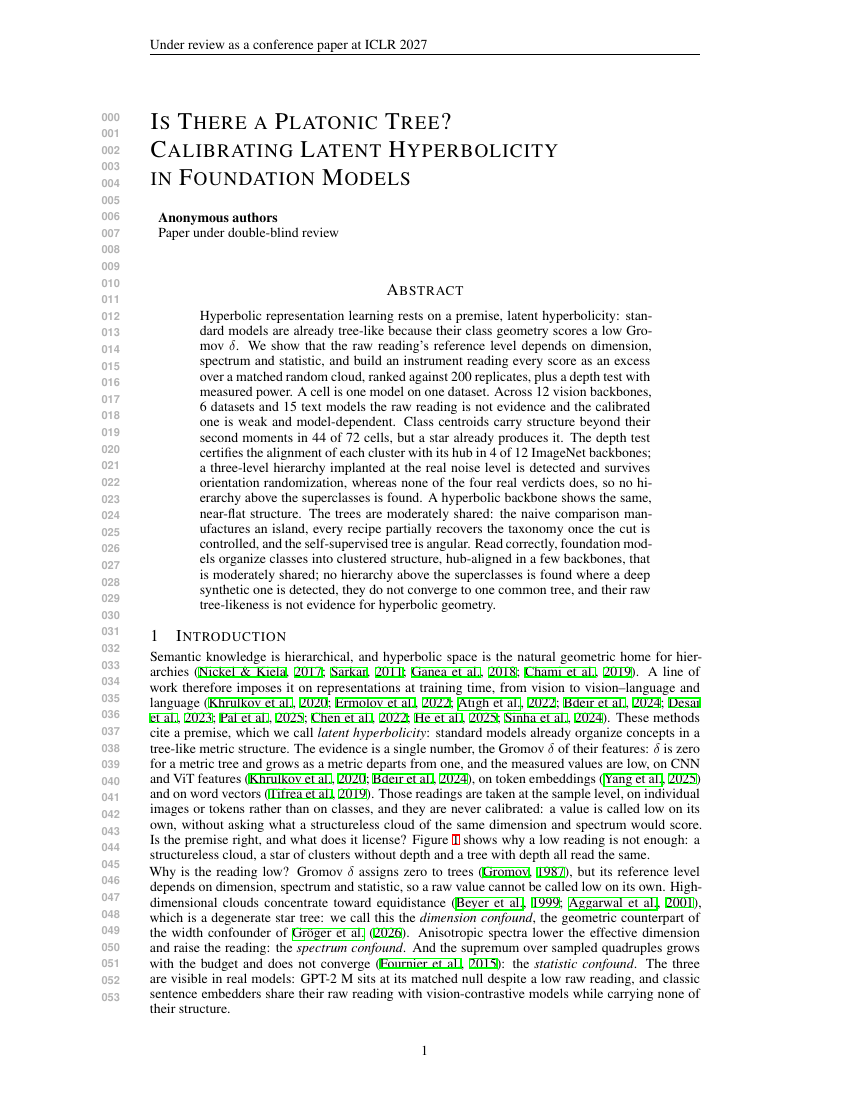
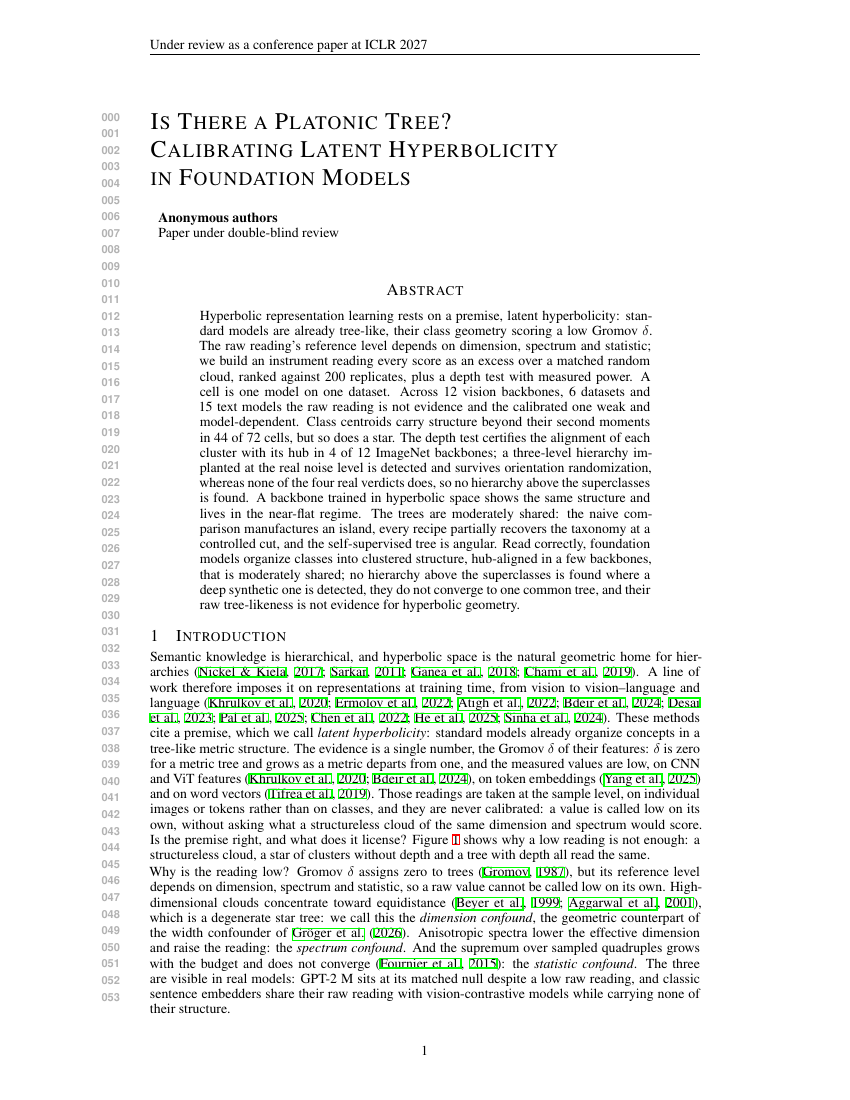
Abstract retouch (author): "A backbone trained in hyperbolic space shows the same structure and lives in the near-flat regime"; 250 words, page 9 kept, sweep 215/215
- The new sentence adds eight words; seven trimmed elsewhere without touching content (listed in CHANGELOG S37 and TODO_author).
- Submission and rebuttal file recompiled; OPENREVIEW_abstract.txt regenerated.

Claude-Session: https://claude.ai/code/session_01X3uQtPxuL37VCSgmwvB8QH

Changed region(s): [[0.2141, 0.2782, 0.7647, 0.5564]]

diff --git a/rebuttal/scripts/phaseE_submission.py b/rebuttal/scripts/phaseE_submission.py
@@ -85,13 +85,13 @@ def edit(s):
     return s
 # sixth review (2026-09-20): the abstract is rewritten by order to 250 words or fewer, depth left open, cell defined in its own sentence;
 # the text below replaces the edited verbatim abstract and is recorded in final_verbatim_edits.json ("abstract_sixth_review")
-ABSTRACT_TEXT = ("Hyperbolic representation learning rests on a premise, latent hyperbolicity: standard models are already tree-like because their class geometry scores a low Gromov $\\delta$. "
-    "We show that the raw reading's reference level depends on dimension, spectrum and statistic, and build an instrument reading every score as an excess over a matched random cloud, ranked against 200 replicates, plus a depth test with measured power. "
+ABSTRACT_TEXT = ("Hyperbolic representation learning rests on a premise, latent hyperbolicity: standard models are already tree-like, their class geometry scoring a low Gromov $\\delta$. "
+    "The raw reading's reference level depends on dimension, spectrum and statistic; we build an instrument reading every score as an excess over a matched random cloud, ranked against 200 replicates, plus a depth test with measured power. "
     "A cell is one model on one dataset. "
-    "Across 12 vision backbones, 6 datasets and 15 text models the raw reading is not evidence and the calibrated one is weak and model-dependent. "
-    "Class centroids carry structure beyond their second moments in {{N_GEN}} of 72 cells, but a star already produces it. The depth test certifies the alignment of each cluster with its hub in {{N_IN}} of 12 ImageNet backbones; a three-level hierarchy implanted at the real noise level is detected and survives orientation randomization, whereas none of the four real verdicts does, so no hierarchy above the superclasses is found. "
-    "A hyperbolic backbone shows the same, near-flat structure. "
-    "The trees are moderately shared: the naive comparison manufactures an island, every recipe partially recovers the taxonomy once the cut is controlled, and the self-supervised tree is angular. "
+    "Across 12 vision backbones, 6 datasets and 15 text models the raw reading is not evidence and the calibrated one weak and model-dependent. "
+    "Class centroids carry structure beyond their second moments in {{N_GEN}} of 72 cells, but so does a star. The depth test certifies the alignment of each cluster with its hub in {{N_IN}} of 12 ImageNet backbones; a three-level hierarchy implanted at the real noise level is detected and survives orientation randomization, whereas none of the four real verdicts does, so no hierarchy above the superclasses is found. "
+    "A backbone trained in hyperbolic space shows the same structure and lives in the near-flat regime. "
+    "The trees are moderately shared: the naive comparison manufactures an island, every recipe partially recovers the taxonomy at a controlled cut, and the self-supervised tree is angular. "
     "Read correctly, foundation models organize classes into clustered structure, hub-aligned in a few backbones, that is moderately shared; no hierarchy above the superclasses is found where a deep synthetic one is detected, they do not converge to one common tree, and their raw tree-likeness is not evidence for hyperbolic geometry.")
 ABSTRACT_SIXTH = ABSTRACT_TEXT   # 2026-09-21: the abstract with priorities 1b and 2 (author's brief); recorded as abstract_final
 ABSTRACT = "\\begin{abstract}\n" + ABSTRACT_TEXT + "\n\\end{abstract}"

diff --git a/ICLR2027/iclr2027/main_iclr2027_final.tex b/ICLR2027/iclr2027/main_iclr2027_final.tex
@@ -61,7 +61,7 @@
 \raggedbottom   % final pass: [t] figures and [H] tables leave short pages; ragged bottoms instead of underfull vertical boxes
 
 \begin{abstract}
-Hyperbolic representation learning rests on a premise, latent hyperbolicity: standard models are already tree-like because their class geometry scores a low Gromov $\delta$. We show that the raw reading's reference level depends on dimension, spectrum and statistic, and build an instrument reading every score as an excess over a matched random cloud, ranked against 200 replicates, plus a depth test with measured power. A cell is one model on one dataset. Across 12 vision backbones, 6 datasets and 15 text models the raw reading is not evidence and the calibrated one is weak and model-dependent. Class centroids carry structure beyond their second moments in 44 of 72 cells, but a star already produces it. The depth test certifies the alignment of each cluster with its hub in 4 of 12 ImageNet backbones; a three-level hierarchy implanted at the real noise level is detected and survives orientation randomization, whereas none of the four real verdicts does, so no hierarchy above the superclasses is found. A hyperbolic backbone shows the same, near-flat structure. The trees are moderately shared: the naive comparison manufactures an island, every recipe partially recovers the taxonomy once the cut is controlled, and the self-supervised tree is angular. Read correctly, foundation models organize classes into clustered structure, hub-aligned in a few backbones, that is moderately shared; no hierarchy above the superclasses is found where a deep synthetic one is detected, they do not converge to one common tree, and their raw tree-likeness is not evidence for hyperbolic geometry.
+Hyperbolic representation learning rests on a premise, latent hyperbolicity: standard models are already tree-like, their class geometry scoring a low Gromov $\delta$. The raw reading's reference level depends on dimension, spectrum and statistic; we build an instrument reading every score as an excess over a matched random cloud, ranked against 200 replicates, plus a depth test with measured power. A cell is one model on one dataset. Across 12 vision backbones, 6 datasets and 15 text models the raw reading is not evidence and the calibrated one weak and model-dependent. Class centroids carry structure beyond their second moments in 44 of 72 cells, but so does a star. The depth test certifies the alignment of each cluster with its hub in 4 of 12 ImageNet backbones; a three-level hierarchy implanted at the real noise level is detected and survives orientation randomization, whereas none of the four real verdicts does, so no hierarchy above the superclasses is found. A backbone trained in hyperbolic space shows the same structure and lives in the near-flat regime. The trees are moderately shared: the naive comparison manufactures an island, every recipe partially recovers the taxonomy at a controlled cut, and the self-supervised tree is angular. Read correctly, foundation models organize classes into clustered structure, hub-aligned in a few backbones, that is moderately shared; no hierarchy above the superclasses is found where a deep synthetic one is detected, they do not converge to one common tree, and their raw tree-likeness is not evidence for hyperbolic geometry.
 \end{abstract}
 
 \section{Introduction}

diff --git a/ICLR2027/iclr2027/main_iclr2027_rebuttal.tex b/ICLR2027/iclr2027/main_iclr2027_rebuttal.tex
@@ -62,7 +62,7 @@
 \raggedbottom   % final pass: [t] figures and [H] tables leave short pages; ragged bottoms instead of underfull vertical boxes
 
 \begin{abstract}
-Hyperbolic representation learning rests on a premise, latent hyperbolicity: standard models are already tree-like because their class geometry scores a low Gromov $\delta$. We show that the raw reading's reference level depends on dimension, spectrum and statistic, and build an instrument reading every score as an excess over a matched random cloud, ranked against 200 replicates, plus a depth test with measured power. A cell is one model on one dataset. Across 12 vision backbones, 6 datasets and 15 text models the raw reading is not evidence and the calibrated one is weak and model-dependent. Class centroids carry structure beyond their second moments in 44 of 72 cells, but a star already produces it. The depth test certifies the alignment of each cluster with its hub in 4 of 12 ImageNet backbones; a three-level hierarchy implanted at the real noise level is detected and survives orientation randomization, whereas none of the four real verdicts does, so no hierarchy above the superclasses is found. A hyperbolic backbone shows the same, near-flat structure. The trees are moderately shared: the naive comparison manufactures an island, every recipe partially recovers the taxonomy once the cut is controlled, and the self-supervised tree is angular. Read correctly, foundation models organize classes into clustered structure, hub-aligned in a few backbones, that is moderately shared; no hierarchy above the superclasses is found where a deep synthetic one is detected, they do not converge to one common tree, and their raw tree-likeness is not evidence for hyperbolic geometry.
+Hyperbolic representation learning rests on a premise, latent hyperbolicity: standard models are already tree-like, their class geometry scoring a low Gromov $\delta$. The raw reading's reference level depends on dimension, spectrum and statistic; we build an instrument reading every score as an excess over a matched random cloud, ranked against 200 replicates, plus a depth test with measured power. A cell is one model on one dataset. Across 12 vision backbones, 6 datasets and 15 text models the raw reading is not evidence and the calibrated one weak and model-dependent. Class centroids carry structure beyond their second moments in 44 of 72 cells, but so does a star. The depth test certifies the alignment of each cluster with its hub in 4 of 12 ImageNet backbones; a three-level hierarchy implanted at the real noise level is detected and survives orientation randomization, whereas none of the four real verdicts does, so no hierarchy above the superclasses is found. A backbone trained in hyperbolic space shows the same structure and lives in the near-flat regime. The trees are moderately shared: the naive comparison manufactures an island, every recipe partially recovers the taxonomy at a controlled cut, and the self-supervised tree is angular. Read correctly, foundation models organize classes into clustered structure, hub-aligned in a few backbones, that is moderately shared; no hierarchy above the superclasses is found where a deep synthetic one is detected, they do not converge to one common tree, and their raw tree-likeness is not evidence for hyperbolic geometry.
 \end{abstract}
 
 \section{Introduction}

diff --git a/ICLR2027/CHANGELOG_final.md b/ICLR2027/CHANGELOG_final.md
@@ -1449,3 +1449,11 @@ un CSV; `rebuttal/results/phaseE_fills.json` guarda los valores); el apéndice, 
 - Pendiente para el autor (TODO): el título de la Tabla 9 (R2, "…and none at the top-level frame used on real backbones") describe el
   barrido sintético de expR55; con expR79 el test sí tiene potencia en el marco superior cuando la nube lleva el espectro real y tres
   niveles. No se ha tocado porque el brief no lo pedía y R2 lo fijó literalmente.
+- **Retoque del autor (2026-09-21, resumen)**: "A hyperbolic backbone shows the same, near-flat structure." → "A backbone trained
+  in hyperbolic space shows the same structure and lives in the near-flat regime." La frase nueva tiene ocho palabras más (no cinco):
+  257. Para respetar el tope de 250 se recortan siete palabras sin tocar contenido: "We show that the raw reading's reference level
+  depends on dimension, spectrum and statistic, and build" → "The raw reading's reference level depends on dimension, spectrum and
+  statistic; we build"; "but a star already produces it" → "but so does a star"; "the calibrated one is weak and model-dependent" →
+  "the calibrated one weak and model-dependent"; "tree-like because their class geometry scores a low Gromov δ" → "tree-like, their
+  class geometry scoring a low Gromov δ"; "once the cut is controlled" → "at a controlled cut". Resumen en 250 palabras exactas
+  (`OPENREVIEW_abstract.txt` y `abstract_final` regenerados); envío recompilado.

diff --git a/ICLR2027/TODO_author.md b/ICLR2027/TODO_author.md
@@ -251,3 +251,5 @@ img/clase, extraídas de `/media/HDD_4TB_1/javi/ILSVRC2012_img_train` con
   el barrido de expR55). (b) Se actualizó la limitación (vi), no la (viii) que decía el brief, porque es la que habla de la lectura a
   nivel de muestra. (c) Siete recortes de una o dos palabras en el resumen para quedar en 249 con tus dos frases nuevas; la frase
   "including a published reading reproduced and calibrated" no cabía.
+- (Retoque del resumen, 2026-09-21) Tu frase nueva sobre el backbone hiperbólico son ocho palabras más; para quedar en 250 se
+  recortaron cinco sitios más (CHANGELOG §37, último punto). Si prefieres el texto sin esos recortes, queda en 257 palabras.
